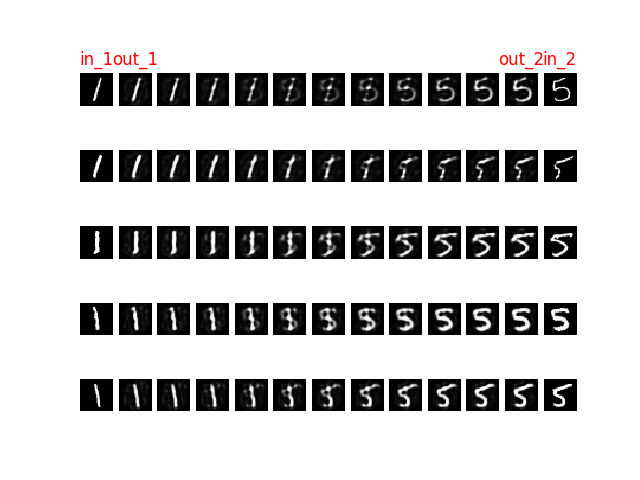
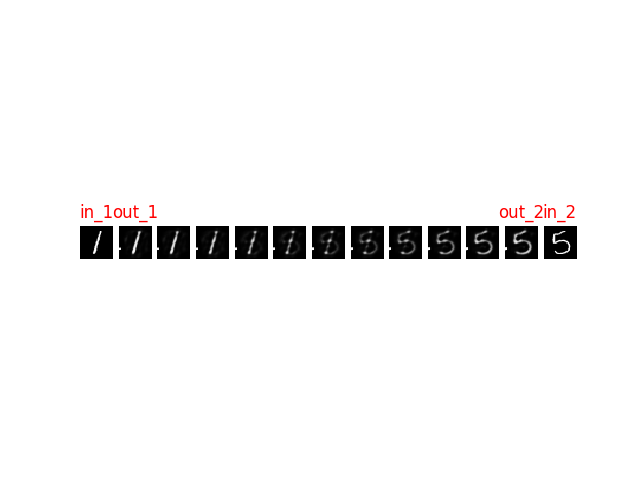
repair ACAI

diff --git a/Generation/AE/ACAI/Predictor.py b/Generation/AE/ACAI/Predictor.py
@@ -10,7 +10,7 @@ def main():
     parser = argparse.ArgumentParser(description="Vanilla_AE")
     parser.add_argument("--batchsize", "-b", type=int, default=128)
     parser.add_argument("--gpu", "-g", type=int, default=0)
-    parser.add_argument("--snapshot", "-s", type=int, default=100)
+    parser.add_argument("--snapshot", "-s", type=int, default=500)
     parser.add_argument("--n_dimz", "-z", type=int, default=64)
 
     args = parser.parse_args()
@@ -45,7 +45,7 @@ def main():
     chainer.serializers.load_npz(load_AE, AE)
     chainer.serializers.load_npz(load_Critic, Critic)
     label1 = 1
-    label2 = 5
+    label2 = 7
     test1 = [i[0] for i in test if(i[1]==label1)]
     test2 = [i[0] for i in test if(i[1]==label2)]
     test1 = test1[0:5]

diff --git a/Generation/AE/ACAI/Updater.py b/Generation/AE/ACAI/Updater.py
@@ -16,9 +16,9 @@ class ACAIUpdater(chainer.training.updaters.StandardUpdater):
     def loss_Critic(self, dis_c, alpha, dis_y1, dis_y2):
         xp = chainer.backend.get_array_module(dis_c.data)
         batchsize = len(dis_c)
-        alpha = xp.full(batchsize, alpha, dtype=xp.float32).reshape(batchsize, 1)
-
-        loss = F.mean_squared_error(dis_c, alpha)
+        # alpha = xp.full(batchsize, alpha, dtype=xp.float32).reshape(batchsize, 1)
+        alpha = alpha[:, 0:1]
+        loss = F.sum((dis_c-alpha)**2) / batchsize
         loss_ = F.sum(dis_y1**2) / batchsize
         loss_ += F.sum(dis_y2**2) / batchsize
         loss += loss_/2

diff --git a/Generation/AE/ACAI/Network/mnist_net.py b/Generation/AE/ACAI/Network/mnist_net.py
@@ -18,7 +18,10 @@ class AE(chainer.Chain):
 
     def __call__(self, x1, x2, train=True):
         if train:
-            self.alpha = random.random()
+            batchsize = x1.shape[0]
+            xp = chainer.backend.get_array_module(x1.data)
+            self.alpha = xp.random.rand(batchsize)
+            self.alpha = xp.vstack((self.alpha, self.alpha)).T
             h1 = self.conv1(x1)
             h2 = self.conv1(x2)
             h1 = self.z(h1)

diff --git a/Generation/AE/ACAI/Train.py b/Generation/AE/ACAI/Train.py
@@ -14,7 +14,7 @@ def main():
     parser.add_argument("--epoch", "-e", type=int, default=100)
     parser.add_argument("--gpu", "-g", type=int, default=0)
     parser.add_argument("--snapshot", "-s", type=int, default=10)
-    parser.add_argument("--n_dimz", "-z", type=int, default=64)
+    parser.add_argument("--n_dimz", "-z", type=int, default=2)
     parser.add_argument("--dataset", "-d", type=str, default='mnist')
 
     args = parser.parse_args()
